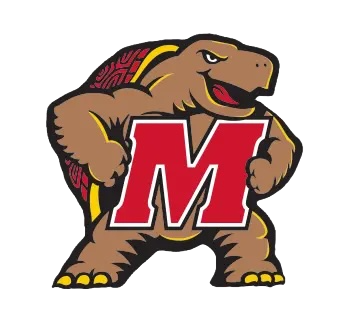
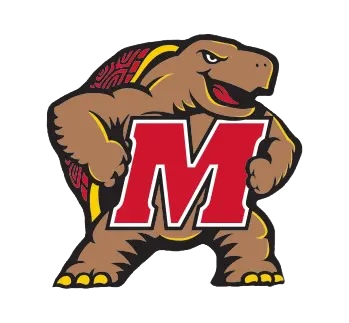
a

diff --git a/index.html b/index.html
@@ -26,7 +26,7 @@
 
         <li class="process__step process__step_deliver">
             <div class="process__step-icon">
-                <img src="static/images/ed4.png" alt="Doctor Icon" style="width: 150px; height: 150px;">
+                <img src="static/images/ed4.tiff" alt="Doctor Icon" style="width: 150px; height: 150px;">
             </div>
         </li>
         <li class="process__step-info process__step-info_deliver">
